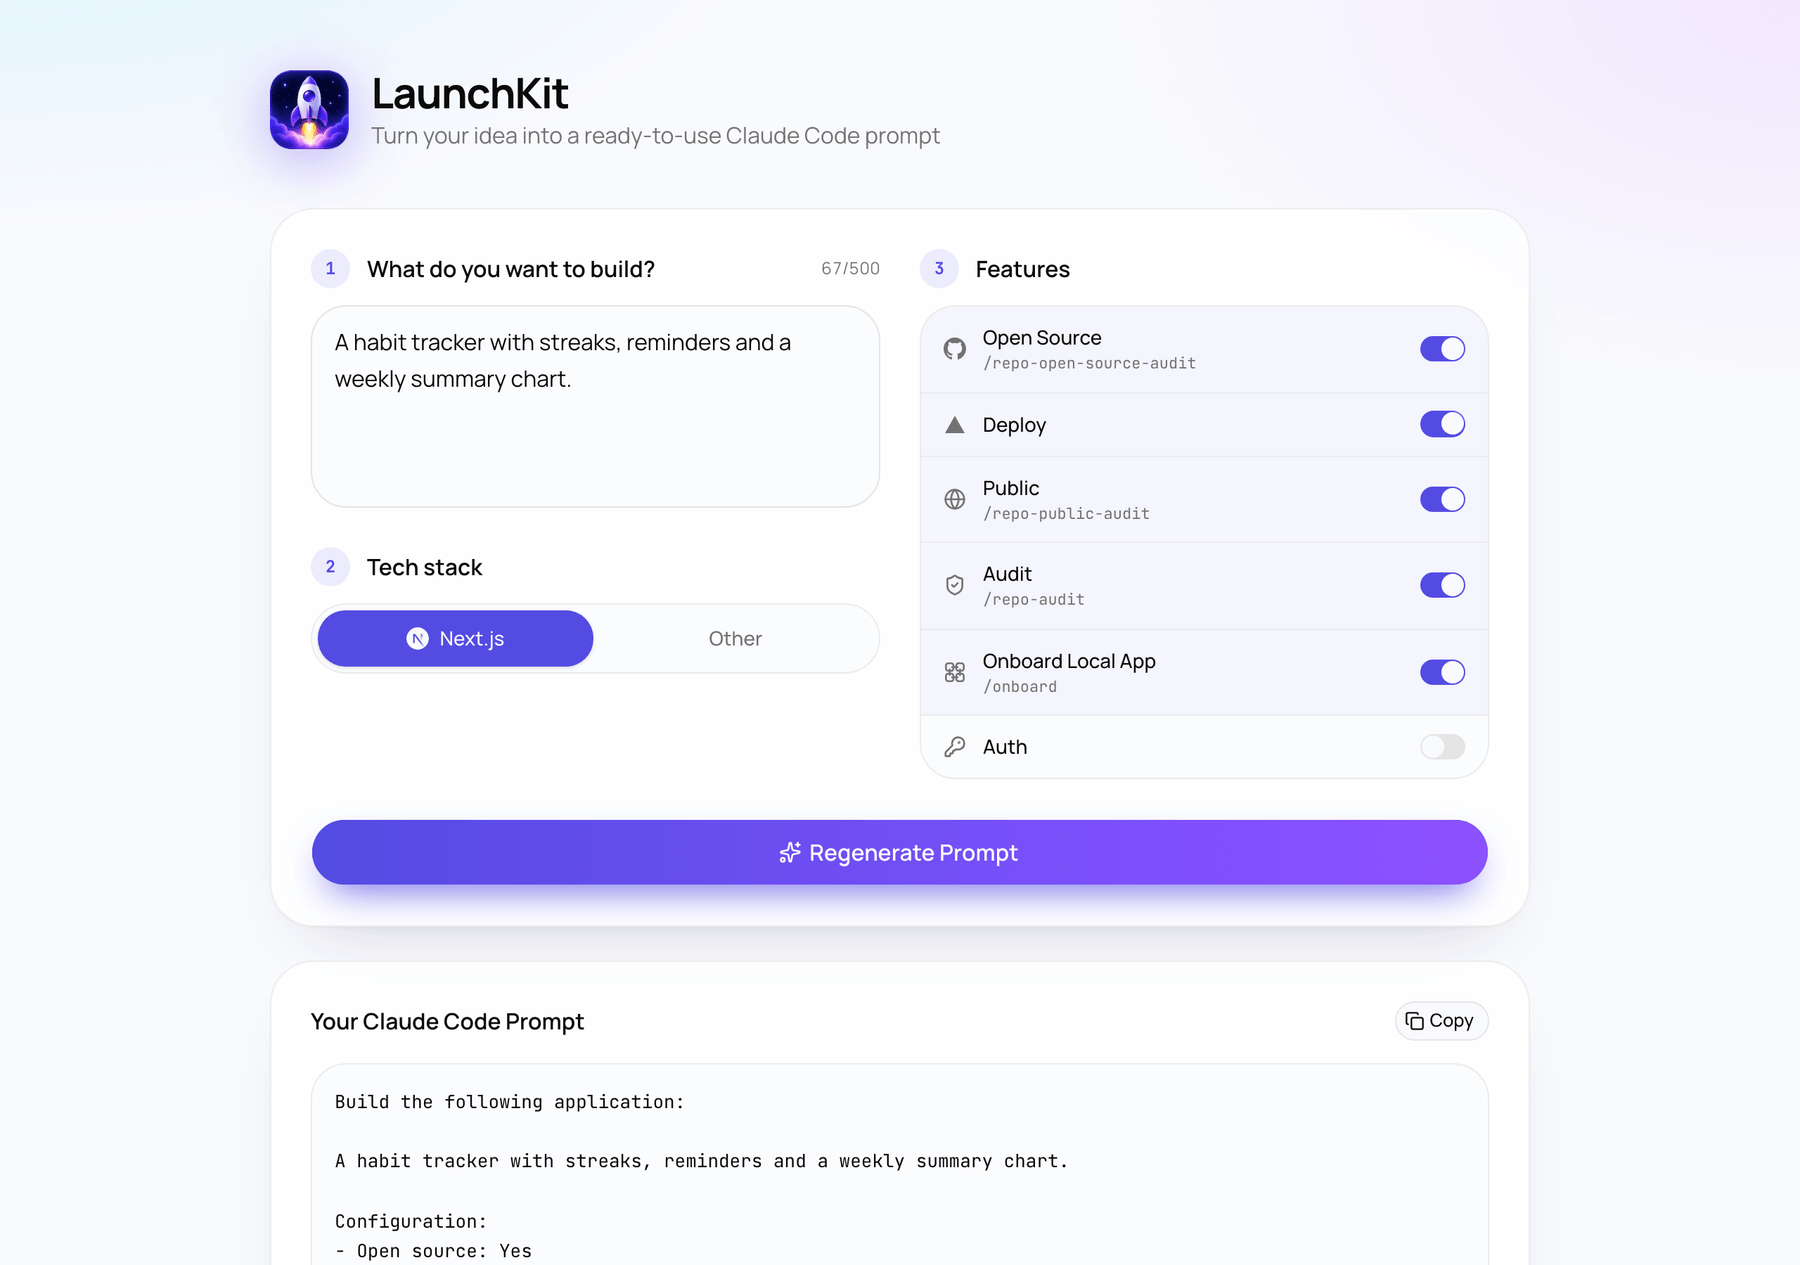
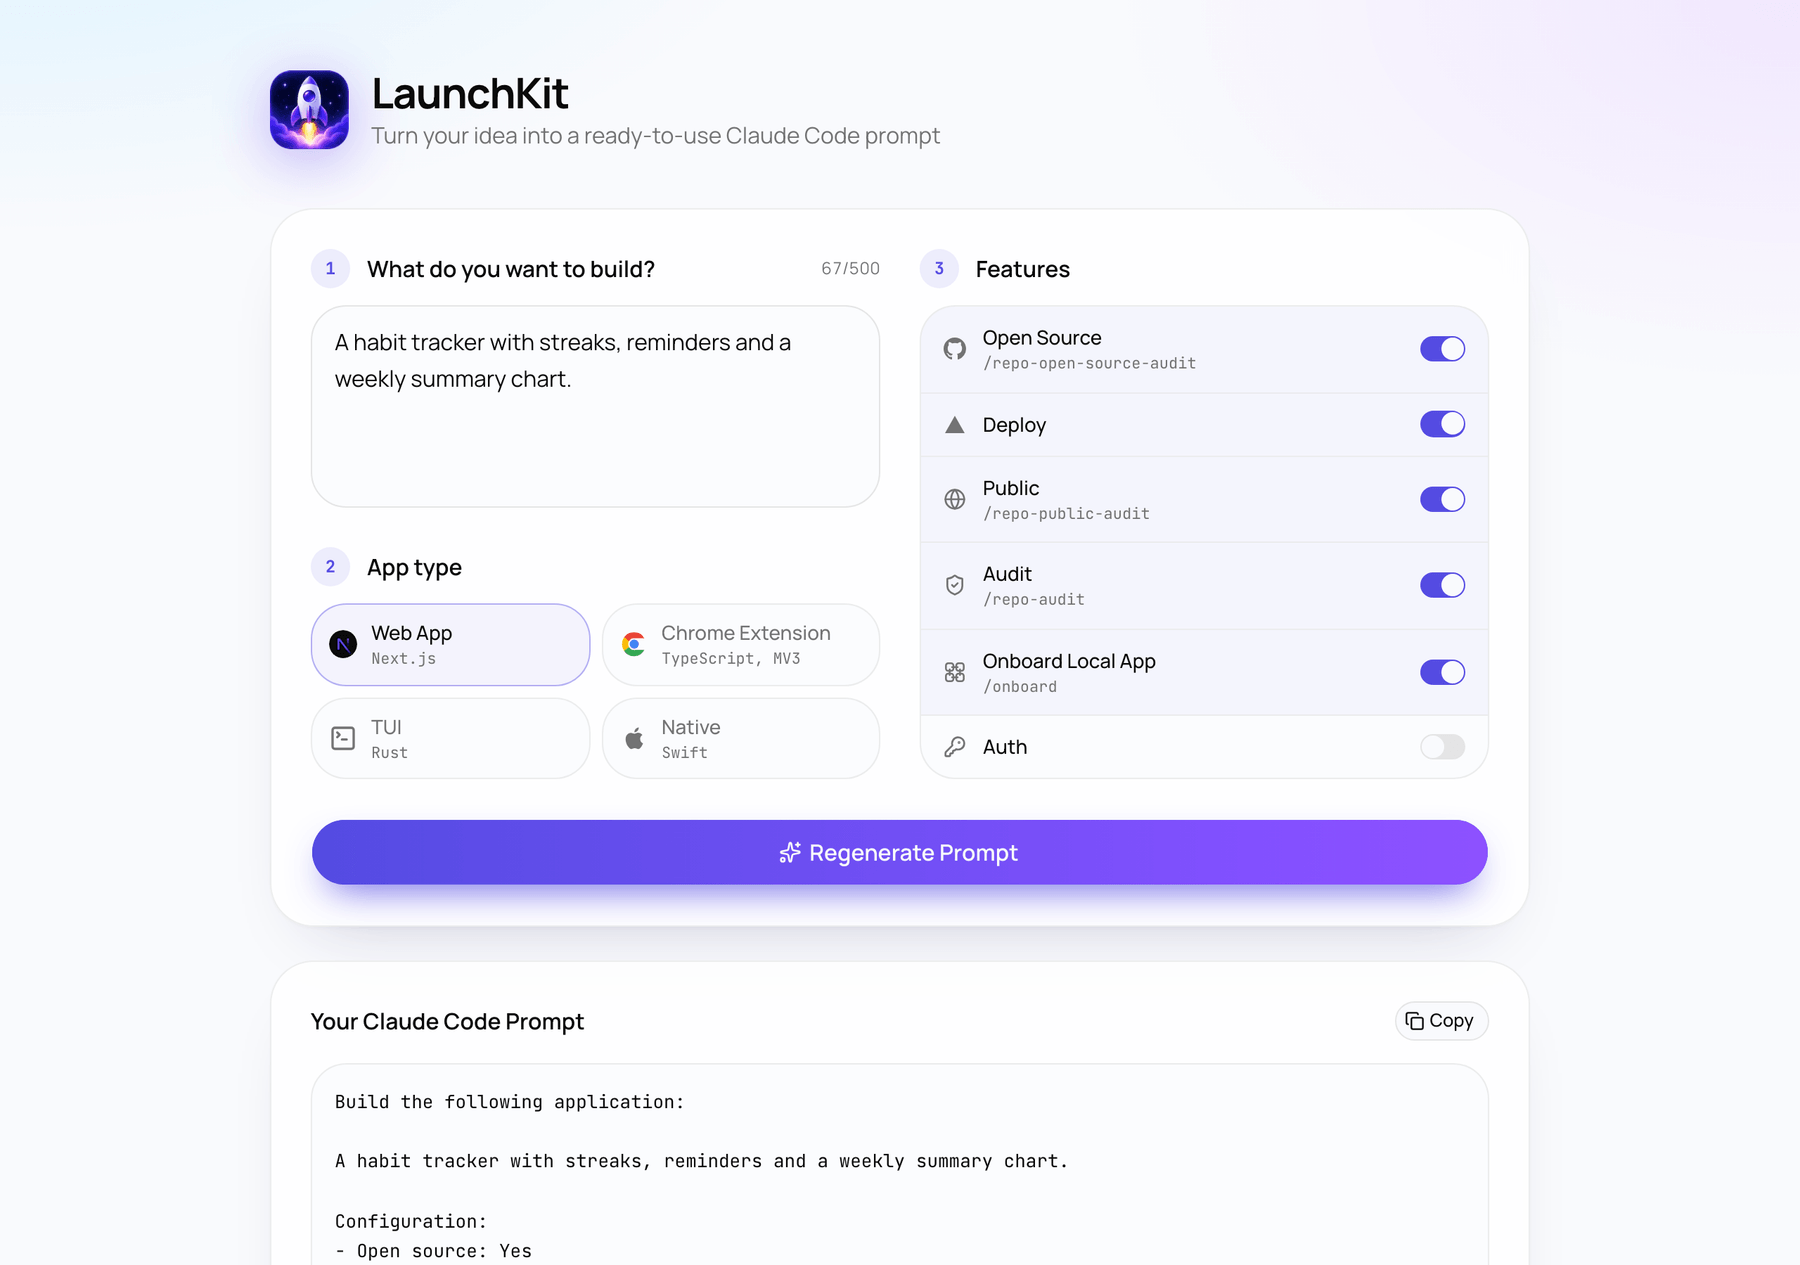
feat: replace the stack picker with an app type that implies its stack
Tech stack asked the wrong question. What actually varies is the kind of thing
being built, and the stack follows from it: Web App on Next.js, Chrome Extension
on TypeScript and MV3, TUI on Rust, Native on Swift. The prompt now carries both
the app type and the stack it implies.

Each option shows its own mark, so the choice is recognisable at a glance: the
Next.js logomark, the Chrome logo, a terminal glyph for TUI and the Apple mark
for native. All inline SVG.

Changed region(s): [[0.1556, 0.4316, 0.4667, 0.5858], [0.3733, 0.5549, 0.4044, 0.5858]]

diff --git a/tests/buildPrompt.test.ts b/tests/buildPrompt.test.ts
@@ -1,6 +1,6 @@
 import { test } from "node:test";
 import assert from "node:assert/strict";
-import { buildPrompt, DEFAULT_FEATURES, STACK_LABELS } from "../lib/buildPrompt.ts";
+import { APP_TYPES, buildPrompt, DEFAULT_FEATURES } from "../lib/buildPrompt.ts";
 import type { Features } from "../lib/buildPrompt.ts";
 
 const all = (v: boolean): Features => ({
@@ -8,35 +8,37 @@ const all = (v: boolean): Features => ({
 });
 
 test("includes the trimmed description first", () => {
-  const out = buildPrompt({ description: "  A habit tracker  ", features: DEFAULT_FEATURES, stack: "nextjs" });
+  const out = buildPrompt({ description: "  A habit tracker  ", features: DEFAULT_FEATURES, appType: "web" });
   assert.ok(out.startsWith("Build the following application:\n\nA habit tracker"));
 });
 
 test("maps every option to Yes/No and Public/Private", () => {
-  const off = buildPrompt({ description: "x", features: all(false), stack: "other" });
+  const off = buildPrompt({ description: "x", features: all(false), appType: "tui" });
   assert.match(off, /Open source: No/);
   assert.match(off, /Deploy: No/);
   assert.match(off, /Visibility: Private/);
   assert.match(off, /Authentication: No/);
   assert.match(off, /Audit: No/);
   assert.match(off, /Onboard existing local app: No/);
-  assert.match(off, /Stack: Other/);
+  assert.match(off, /App type: TUI/);
+  assert.match(off, /Stack: Rust/);
 
-  const on = buildPrompt({ description: "x", features: all(true), stack: "nextjs" });
+  const on = buildPrompt({ description: "x", features: all(true), appType: "web" });
   assert.match(on, /Open source: Yes/);
   assert.match(on, /Visibility: Public/);
+  assert.match(on, /App type: Web App/);
   assert.match(on, /Stack: Next\.js/);
 });
 
 test("conditional sections appear only when enabled", () => {
-  const off = buildPrompt({ description: "x", features: all(false), stack: "nextjs" });
+  const off = buildPrompt({ description: "x", features: all(false), appType: "web" });
   assert.doesNotMatch(off, /^Audit:$/m);
   assert.doesNotMatch(off, /^Onboard local app:$/m);
   assert.doesNotMatch(off, /^Deploy:$/m);
   assert.doesNotMatch(off, /^Authentication:$/m);
   assert.doesNotMatch(off, /^Open source:$/m);
 
-  const on = buildPrompt({ description: "x", features: all(true), stack: "nextjs" });
+  const on = buildPrompt({ description: "x", features: all(true), appType: "web" });
   assert.match(on, /^Audit:\n- Review security/m);
   assert.match(on, /^Onboard local app:\n- Inspect the existing repository first/m);
   assert.match(on, /^Deploy:\n- Add production-ready deployment configuration/m);
@@ -45,7 +47,7 @@ test("conditional sections appear only when enabled", () => {
 });
 
 test("always includes the before and after coding steps", () => {
-  const out = buildPrompt({ description: "x", features: DEFAULT_FEATURES, stack: "nextjs" });
+  const out = buildPrompt({ description: "x", features: DEFAULT_FEATURES, appType: "web" });
   assert.match(out, /Before coding:\n1\. Inspect the project\./);
   assert.match(out, /After coding:\n- Run lint[\s\S]*- Summarize what changed/);
 });
@@ -54,11 +56,11 @@ test("skills are listed last, in run order, only for the toggles that map to one
   const none = buildPrompt({
     description: "x",
     features: { ...all(false), deploy: true, auth: true },
-    stack: "nextjs",
+    appType: "web",
   });
   assert.doesNotMatch(none, /Skills to run/);
 
-  const every = buildPrompt({ description: "x", features: all(true), stack: "nextjs" });
+  const every = buildPrompt({ description: "x", features: all(true), appType: "web" });
   assert.match(
     every,
     /Skills to run, in order:\n1\. \/onboard\n2\. \/repo-audit\n3\. \/repo-public-audit\n4\. \/repo-open-source-audit$/,
@@ -67,13 +69,19 @@ test("skills are listed last, in run order, only for the toggles that map to one
   const one = buildPrompt({
     description: "x",
     features: { ...all(false), audit: true },
-    stack: "nextjs",
+    appType: "web",
   });
   assert.match(one, /Skills to run, in order:\n1\. \/repo-audit$/);
 });
 
-test("stack labels cover every stack", () => {
-  assert.deepEqual(Object.keys(STACK_LABELS).sort(), ["nextjs", "other"]);
+test("every app type carries a label and an implied stack", () => {
+  assert.deepEqual(APP_TYPES.map((a) => a.key), ["web", "chrome", "tui", "native"]);
+  for (const { key, label, stack } of APP_TYPES) {
+    assert.ok(label.length > 0, `${key} needs a label`);
+    assert.ok(stack.length > 0, `${key} needs a stack`);
+    const out = buildPrompt({ description: "x", features: DEFAULT_FEATURES, appType: key });
+    assert.match(out, new RegExp(`App type: ${label.replace(/[.]/g, "\\.")}`));
+  }
 });
 
 test("each guidance section is driven by its own toggle alone", () => {
@@ -89,14 +97,14 @@ test("each guidance section is driven by its own toggle alone", () => {
     const only = buildPrompt({
       description: "x",
       features: { ...all(false), [key]: true },
-      stack: "nextjs",
+      appType: "web",
     });
     assert.match(only, heading, `${key} on should emit its section`);
 
     const without = buildPrompt({
       description: "x",
       features: { ...all(true), [key]: false },
-      stack: "nextjs",
+      appType: "web",
     });
     assert.doesNotMatch(without, heading, `${key} off should drop its section`);
   }

diff --git a/components/AppTypeSelector.tsx b/components/AppTypeSelector.tsx
@@ -1,0 +1,80 @@
+import { useRef, type ComponentType, type KeyboardEvent } from "react";
+import { SquareTerminal } from "lucide-react";
+import { StepLabel } from "@/components/StepLabel";
+import { AppleMark, ChromeMark, NextMark } from "@/components/BrandIcons";
+import { APP_TYPES, type AppType } from "@/lib/buildPrompt";
+import { cn } from "@/lib/utils";
+
+type Props = { value: AppType; onChange: (v: AppType) => void };
+
+const MARKS: Record<AppType, ComponentType<{ className?: string }>> = {
+  web: NextMark,
+  chrome: ChromeMark,
+  tui: SquareTerminal,
+  native: AppleMark,
+};
+
+export function AppTypeSelector({ value, onChange }: Props) {
+  const refs = useRef<(HTMLButtonElement | null)[]>([]);
+
+  // A radiogroup is expected to move selection with the arrow keys, and only the
+  // selected radio stays in the tab order (roving tabindex). Without this a keyboard
+  // or screen reader user can focus an option and never change the choice.
+  const move = (delta: number) => {
+    const index = APP_TYPES.findIndex((a) => a.key === value);
+    const next = (index + delta + APP_TYPES.length) % APP_TYPES.length;
+    onChange(APP_TYPES[next].key);
+    refs.current[next]?.focus();
+  };
+
+  const onKeyDown = (e: KeyboardEvent<HTMLButtonElement>) => {
+    if (e.key === "ArrowRight" || e.key === "ArrowDown") {
+      e.preventDefault();
+      move(1);
+    } else if (e.key === "ArrowLeft" || e.key === "ArrowUp") {
+      e.preventDefault();
+      move(-1);
+    }
+  };
+
+  return (
+    <div>
+      <div className="mb-3"><StepLabel n={2}>App type</StepLabel></div>
+      <div role="radiogroup" aria-label="App type" className="grid grid-cols-2 gap-2">
+        {APP_TYPES.map(({ key, label, stack }, i) => {
+          const selected = key === value;
+          const Mark = MARKS[key];
+          return (
+            <button
+              key={key}
+              ref={(el) => { refs.current[i] = el; }}
+              type="button"
+              role="radio"
+              aria-checked={selected}
+              tabIndex={selected ? 0 : -1}
+              onClick={() => onChange(key)}
+              onKeyDown={onKeyDown}
+              // The Next.js mark punches its highlights out in the surface colour,
+              // so it stays legible on both the selected and unselected background.
+              style={{ "--nextjs-ink": selected ? "var(--primary)" : "var(--background)" } as React.CSSProperties}
+              className={cn(
+                "flex items-center gap-2.5 rounded-2xl border px-3 py-2.5 text-left transition-all outline-none focus-visible:ring-3 focus-visible:ring-ring/50",
+                selected
+                  ? "border-primary/40 bg-primary/[0.06]"
+                  : "border-border/70 bg-background/60 hover:bg-primary/[0.03]",
+              )}
+            >
+              <Mark className={cn("size-5 shrink-0", selected ? "text-foreground" : "text-muted-foreground")} />
+              <span className="min-w-0">
+                <span className={cn("block truncate text-sm font-medium", selected ? "text-foreground" : "text-muted-foreground")}>
+                  {label}
+                </span>
+                <span className="block truncate font-mono text-[11px] text-muted-foreground">{stack}</span>
+              </span>
+            </button>
+          );
+        })}
+      </div>
+    </div>
+  );
+}

diff --git a/components/AppBuilder.tsx b/components/AppBuilder.tsx
@@ -5,14 +5,14 @@ import { Sparkles } from "lucide-react";
 import { Button } from "@/components/ui/button";
 import { DescriptionField } from "@/components/DescriptionField";
 import { FeatureToggles } from "@/components/FeatureToggles";
-import { TechStackSelector } from "@/components/TechStackSelector";
+import { AppTypeSelector } from "@/components/AppTypeSelector";
 import { PromptPreview } from "@/components/PromptPreview";
-import { buildPrompt, DEFAULT_FEATURES, type Features, type Stack } from "@/lib/buildPrompt";
+import { buildPrompt, DEFAULT_FEATURES, type AppType, type Features } from "@/lib/buildPrompt";
 
 export function AppBuilder() {
   const [description, setDescription] = useState("");
   const [features, setFeatures] = useState<Features>(DEFAULT_FEATURES);
-  const [stack, setStack] = useState<Stack>("nextjs");
+  const [appType, setAppType] = useState<AppType>("web");
   const [prompt, setPrompt] = useState("");
   const outputRef = useRef<HTMLDivElement>(null);
   const revealed = useRef(false);
@@ -21,7 +21,7 @@ export function AppBuilder() {
   // buildPrompt is a pure string join, so recomputing it every render is cheaper
   // than tracking a snapshot of the inputs. It is only used to tell whether what
   // is on screen still matches the current settings.
-  const isStale = prompt !== "" && prompt !== buildPrompt({ description, features, stack });
+  const isStale = prompt !== "" && prompt !== buildPrompt({ description, features, appType });
 
   // The output sits below the form, so bring it into view the first time it appears.
   // Regenerating afterwards leaves the scroll position alone.
@@ -38,7 +38,7 @@ export function AppBuilder() {
         <div className="grid gap-7 md:grid-cols-2">
           <div className="flex flex-col gap-7">
             <DescriptionField value={description} onChange={setDescription} />
-            <TechStackSelector value={stack} onChange={setStack} />
+            <AppTypeSelector value={appType} onChange={setAppType} />
           </div>
           <FeatureToggles value={features} onChange={setFeatures} />
         </div>
@@ -47,7 +47,7 @@ export function AppBuilder() {
             size="lg"
             className="h-12 w-full rounded-2xl bg-linear-to-r from-primary to-violet-500 text-base font-semibold shadow-[0_12px_28px_-12px_var(--primary)] hover:from-primary/90 hover:to-violet-500/90"
             disabled={!canGenerate}
-            onClick={() => setPrompt(buildPrompt({ description, features, stack }))}
+            onClick={() => setPrompt(buildPrompt({ description, features, appType }))}
           >
             <Sparkles data-icon="inline-start" />
             {prompt === "" ? "Generate Prompt" : "Regenerate Prompt"}

diff --git a/lib/buildPrompt.ts b/lib/buildPrompt.ts
@@ -1,4 +1,4 @@
-export type Stack = "nextjs" | "other";
+export type AppType = "web" | "chrome" | "tui" | "native";
 
 export type Features = {
   openSource: boolean;
@@ -12,15 +12,20 @@ export type Features = {
 export type PromptInput = {
   description: string;
   features: Features;
-  stack: Stack;
+  appType: AppType;
 };
 
 export const DESCRIPTION_MAX = 500;
 
-export const STACK_LABELS: Record<Stack, string> = {
-  nextjs: "Next.js",
-  other: "Other",
-};
+// The app type decides the stack, so there is nothing separate to pick.
+export const APP_TYPES: { key: AppType; label: string; stack: string }[] = [
+  { key: "web", label: "Web App", stack: "Next.js" },
+  { key: "chrome", label: "Chrome Extension", stack: "TypeScript, MV3" },
+  { key: "tui", label: "TUI", stack: "Rust" },
+  { key: "native", label: "Native", stack: "Swift" },
+];
+
+export const appTypeFor = (key: AppType) => APP_TYPES.find((a) => a.key === key)!;
 
 // Everything on by default except auth: most apps want the full ship pipeline, and
 // far from every app needs a login.
@@ -118,7 +123,7 @@ const bullets = (items: string[]) => items.map((i) => `- ${i}`).join("\n");
 const numbered = (items: string[]) =>
   items.map((i, n) => `${n + 1}. ${i}`).join("\n");
 
-export function buildPrompt({ description, features, stack }: PromptInput): string {
+export function buildPrompt({ description, features, appType }: PromptInput): string {
   const sections: string[] = [
     `Build the following application:\n\n${description.trim()}`,
     `Configuration:\n${bullets([
@@ -128,7 +133,8 @@ export function buildPrompt({ description, features, stack }: PromptInput): stri
       `Authentication: ${yesNo(features.auth)}`,
       `Audit: ${yesNo(features.audit)}`,
       `Onboard existing local app: ${yesNo(features.onboard)}`,
-      `Stack: ${STACK_LABELS[stack]}`,
+      `App type: ${appTypeFor(appType).label}`,
+      `Stack: ${appTypeFor(appType).stack}`,
     ])}`,
     `Requirements:\n${bullets(REQUIREMENTS)}`,
   ];

diff --git a/components/BrandIcons.tsx b/components/BrandIcons.tsx
@@ -35,7 +35,27 @@ export function LocalAppsMark({ className = base }: Props) {
   );
 }
 
-// Full-colour brand mark, used once at a larger size in the stack selector.
+export function ChromeMark({ className = base }: Props) {
+  return (
+    <svg viewBox="0 0 24 24" className={className} aria-hidden focusable="false">
+      <path fill="#EA4335" d="M12 2a10 10 0 0 1 8.66 5H12a5 5 0 0 0-4.33 2.5L3.34 6.34A9.98 9.98 0 0 1 12 2Z" />
+      <path fill="#FBBC05" d="M3.34 6.34 7.67 9.5a5 5 0 0 0 0 5L3.34 17.66a9.98 9.98 0 0 1 0-11.32Z" />
+      <path fill="#34A853" d="M3.34 17.66 7.67 14.5A5 5 0 0 0 12 17h8.66A10 10 0 0 1 3.34 17.66Z" />
+      <circle cx="12" cy="12" r="5" fill="#fff" />
+      <circle cx="12" cy="12" r="3.9" fill="#4285F4" />
+    </svg>
+  );
+}
+
+export function AppleMark({ className = base }: Props) {
+  return (
+    <svg viewBox="0 0 24 24" fill="currentColor" className={className} aria-hidden focusable="false">
+      <path d="M17.05 12.54c-.02-2.3 1.88-3.4 1.96-3.46-1.07-1.56-2.73-1.78-3.32-1.8-1.41-.14-2.76.83-3.48.83-.72 0-1.83-.81-3.01-.79-1.55.02-2.98.9-3.78 2.29-1.61 2.79-.41 6.92 1.16 9.19.77 1.11 1.68 2.35 2.88 2.31 1.16-.05 1.6-.75 3-.75s1.79.75 3.01.72c1.24-.02 2.03-1.13 2.79-2.24.88-1.28 1.24-2.53 1.26-2.59-.03-.01-2.42-.93-2.44-3.68M14.9 5.6c.64-.77 1.07-1.85.95-2.92-.92.04-2.03.61-2.69 1.38-.59.68-1.11 1.78-.97 2.83 1.03.08 2.07-.52 2.71-1.29" />
+    </svg>
+  );
+}
+
+// Full-colour brand mark, used once at a larger size in the app type selector.
 export function NextMark({ className = "size-4 shrink-0" }: Props) {
   return (
     <svg viewBox="0 0 180 180" className={className} aria-hidden focusable="false">

diff --git a/e2e/prompt.spec.ts b/e2e/prompt.spec.ts
@@ -20,6 +20,7 @@ test("builds, copies and invalidates a prompt", async ({ page, context }) => {
   await generate.click();
 
   await expect(output).toContainText(DESCRIPTION);
+  await expect(output).toContainText("App type: Web App");
   await expect(output).toContainText("Stack: Next.js");
   await expect(output).toContainText("Authentication:");
   // Audit ships on by default, so its section and skill appear without being touched.
@@ -44,15 +45,18 @@ test("builds, copies and invalidates a prompt", async ({ page, context }) => {
   await expect(output).not.toContainText("/repo-open-source-audit");
 });
 
-test("the stack radiogroup is operable with the arrow keys", async ({ page }) => {
+test("the app type radiogroup is operable with the arrow keys", async ({ page }) => {
   await page.goto("/");
-  const nextjs = page.getByRole("radio", { name: "Next.js" });
-  await expect(nextjs).toBeChecked();
+  const web = page.getByRole("radio", { name: /Web App/ });
+  await expect(web).toBeChecked();
 
-  await nextjs.focus();
+  await web.focus();
   await page.keyboard.press("ArrowRight");
-  await expect(page.getByRole("radio", { name: "Other" })).toBeChecked();
-  await expect(nextjs).not.toBeChecked();
+  await expect(page.getByRole("radio", { name: /Chrome Extension/ })).toBeChecked();
+  await expect(web).not.toBeChecked();
+
+  await page.keyboard.press("ArrowLeft");
+  await expect(web).toBeChecked();
 });
 
 test("a blocked clipboard write is surfaced instead of silently doing nothing", async ({ page }) => {

diff --git a/README.md b/README.md
@@ -41,7 +41,8 @@ the 3 or 4 choices that actually vary; it assembles the rest.
 - 4 of those toggles map to a real Claude Code skill, shown on the switch and emitted
   as a numbered run order at the end of the prompt: `/onboard`, `/repo-audit`,
   `/repo-public-audit` and `/repo-open-source-audit`.
-- Pick a target stack: Next.js, shown with its logo, or Other.
+- Pick an app type and the stack comes with it: Web App on Next.js, Chrome Extension
+  on TypeScript and MV3, TUI on Rust, Native on Swift. Each carries its own mark.
 - The output pane stays out of the way until you generate, then reveals below the form
   and scrolls itself into view.
 - Read the assembled prompt in a monospace pane and copy it with 1 click.
@@ -64,7 +65,7 @@ call at runtime, so the whole site prerenders to static files.
 flowchart LR
     D[Description] --> B
     T[6 feature toggles] --> B
-    S[Stack choice] --> B
+    S[App type] --> B
     B["buildPrompt()"] --> P[Prompt text]
     P --> C[Clipboard]
 ```
@@ -127,10 +128,10 @@ app/
   opengraph-image.jpg   # 1200x630 share card
 components/
   AppBuilder.tsx        # the only stateful component
-  BrandIcons.tsx        # inline GitHub, Vercel, local-apps and Next.js marks
+  BrandIcons.tsx        # inline GitHub, Vercel, local-apps, Chrome, Apple, Next.js marks
   DescriptionField.tsx  # textarea plus character counter
   FeatureToggles.tsx    # the 6 switches, each with its mark and skill command
-  TechStackSelector.tsx # radiogroup with arrow-key navigation and the Next.js mark
+  AppTypeSelector.tsx   # 4 app types, each with its mark and implied stack
   PromptPreview.tsx     # output pane, copy button, staleness pill
   StepLabel.tsx         # numbered section heading
   ui/                   # shadcn primitives
